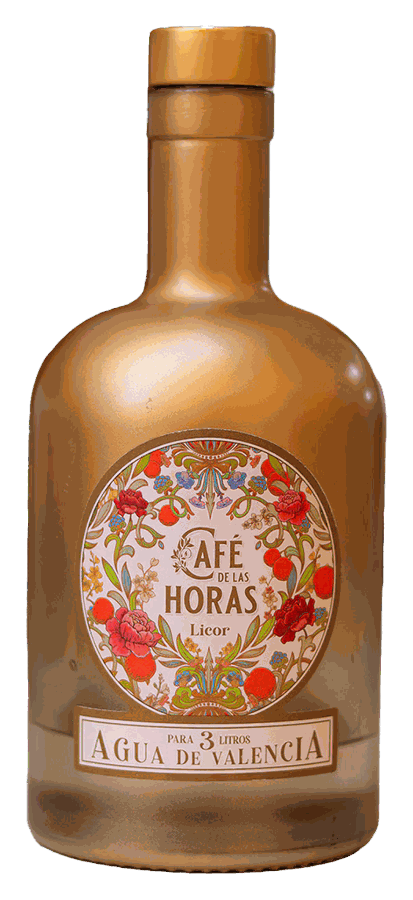
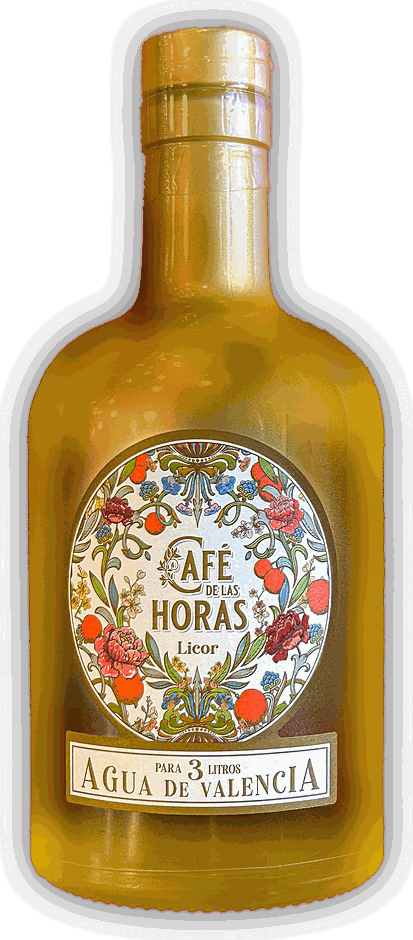
Botella nueva y formulario de pedido con IBAN por email

diff --git a/index.html b/index.html
@@ -7,6 +7,13 @@
 <link rel="preconnect" href="https://fonts.googleapis.com">
 <link rel="preconnect" href="https://fonts.gstatic.com" crossorigin>
 <link href="https://fonts.googleapis.com/css2?family=Fraunces:ital,opsz,wght@0,9..144,300;0,9..144,400;0,9..144,500;0,9..144,600;1,9..144,400&family=Inter:wght@300;400;500;600&display=swap" rel="stylesheet">
+<script>
+  try{
+    if(!sessionStorage.getItem('introSeen') && !matchMedia('(prefers-reduced-motion:reduce)').matches){
+      document.documentElement.classList.add('intro-on');
+    }
+  }catch(e){}
+</script>
 <style>
   :root{
     --naranja:#D9622B;
@@ -81,6 +88,38 @@
     .menu-toggle{display:block;}
     header{padding:18px 20px;}
   }
+
+
+  /* INTRO delicada — botella sobre crema, flores como una filigrana suave en los bordes, se disuelve sobre la web */
+  .intro{display:none; position:fixed; inset:0; z-index:1000; overflow:hidden; align-items:center; justify-content:center; flex-direction:column; background:#f6efe4;
+    transition:opacity 1.2s ease; }
+  html.intro-on .intro{display:flex;}
+  html.intro-on{overflow:hidden;}
+  .intro-flores{position:absolute; inset:-3%; background:url(assets/patron-flores.webp) center/clamp(200px,24vw,300px) repeat; opacity:0; filter:saturate(.75);
+    -webkit-mask-image:radial-gradient(ellipse 46% 52% at 50% 50%, transparent 30%, #000 100%); mask-image:radial-gradient(ellipse 46% 52% at 50% 50%, transparent 30%, #000 100%);
+    animation:floresIn 2.4s ease-out .1s forwards, floresDrift 8s ease-out .1s forwards;}
+  .intro-bottle-wrap{position:relative; z-index:2; display:inline-block; height:min(44vh,420px); opacity:0; transform:translateY(26px);
+    animation:introRise 1.6s cubic-bezier(.2,.7,.2,1) .5s forwards;}
+  .intro-bottle{display:block; height:100%; width:auto; filter:drop-shadow(0 14px 16px rgba(80,50,20,.22));}
+  .intro-bottle-wrap::after{content:""; position:absolute; inset:0; pointer-events:none;
+    background:linear-gradient(105deg, transparent 38%, rgba(255,255,255,.4) 50%, transparent 62%) -150% 0/250% 100% no-repeat;
+    -webkit-mask:url(assets/bottle-hd.webp) center/contain no-repeat; mask:url(assets/bottle-hd.webp) center/contain no-repeat;
+    animation:introShine 1.4s ease-in-out 1.9s forwards;}
+  .intro-line{position:relative; z-index:2; margin-top:26px; height:1px; width:0; background:#b58b3c; animation:lineGrow 1s ease 1.6s forwards;}
+  .intro-name{position:relative; z-index:2; margin-top:16px; font-family:var(--sans); font-size:10.5px; font-weight:500; letter-spacing:.34em; text-transform:uppercase; color:#6b4a24; opacity:0; animation:introText 1.2s ease 1.9s forwards;}
+  .intro-skip{position:absolute; z-index:3; top:24px; right:26px; background:none; border:0; color:rgba(90,60,30,.55); font:11px var(--sans); letter-spacing:.15em; text-transform:uppercase; cursor:pointer; opacity:0; animation:introText .6s ease 1.2s forwards;}
+  .intro.leaving{opacity:0; pointer-events:none;}
+  .intro.leaving .intro-bottle-wrap{transform:translateY(-10px) scale(1.04); transition:transform 1.2s ease;}
+  @keyframes floresIn{to{opacity:.4;}}
+  @keyframes floresDrift{from{transform:scale(1.07);} to{transform:scale(1);}}
+  @keyframes introRise{to{opacity:1; transform:translateY(0);}}
+  @keyframes introShine{to{background-position:250% 0;}}
+  @keyframes lineGrow{to{width:56px;}}
+  @keyframes introText{to{opacity:1;}}
+  /* hero: entrada escalonada tras la intro + zoom lento de fondo */
+  .hero .fade{transition-duration:1.1s;}
+  .hero .eyebrow.fade{transition-delay:.05s;} .hero h1.fade{transition-delay:.2s;} .hero p.fade{transition-delay:.4s;} .hero .cta-row.fade{transition-delay:.6s;}
+  @media(prefers-reduced-motion:reduce){ .intro{display:none !important;} }
 
   /* HERO */
   .hero{
@@ -228,6 +267,32 @@
   .world-row span:not(:last-child)::after{content:"·"; position:absolute; right:-3px; color:var(--dorado);}
 
   /* NEWSLETTER */
+  /* PEDIDO — formulario dentro de la página, sale por WhatsApp */
+  .order-overlay{display:none; position:fixed; inset:0; z-index:900; background:rgba(20,17,13,.6); align-items:center; justify-content:center; padding:24px;}
+  .order-overlay.open{display:flex;}
+  .order-modal{background:var(--crema); width:100%; max-width:460px; max-height:88vh; overflow-y:auto; border-radius:6px; padding:40px 36px; position:relative; box-shadow:0 40px 80px -20px rgba(0,0,0,.4);}
+  .order-close{position:absolute; top:16px; right:16px; width:34px; height:34px; border:0; background:none; font-size:20px; color:var(--negro); opacity:.5; cursor:pointer; line-height:1;}
+  .order-close:hover{opacity:1;}
+  .order-modal h3{font-size:22px; margin-bottom:6px;}
+  .order-modal .order-sub{font-family:var(--sans); font-size:13px; color:#6b6558; margin-bottom:26px; line-height:1.6;}
+  .order-field{margin-bottom:16px;}
+  .order-field label{display:block; font-family:var(--sans); font-size:10.5px; letter-spacing:.08em; text-transform:uppercase; color:#8a8474; margin-bottom:6px;}
+  .order-field input, .order-field select, .order-field textarea{
+    width:100%; font-family:var(--sans); font-size:14px; color:var(--negro); background:#fff;
+    border:1px solid rgba(28,26,23,0.18); border-radius:3px; padding:11px 13px; transition:border-color .2s ease;
+  }
+  .order-field input:focus, .order-field select:focus, .order-field textarea:focus{outline:none; border-color:var(--naranja);}
+  .order-field textarea{resize:vertical; min-height:64px;}
+  .order-row{display:grid; grid-template-columns:2fr 1fr; gap:12px;}
+  .order-modal .btn{width:100%; margin-top:6px; border:0;}
+  .order-note{font-family:var(--sans); font-size:11.5px; color:#8a8474; margin-top:14px; line-height:1.6;}
+  .order-total{font-family:var(--sans); font-size:13px; color:var(--negro); background:#fff; border:1px solid rgba(28,26,23,0.12); border-radius:3px; padding:12px 14px; margin-bottom:14px;}
+  .order-total strong{color:var(--naranja); font-family:var(--serif); font-size:15px;}
+  .order-done{display:none; text-align:center; padding:12px 0;}
+  .order-done.show{display:block;}
+  .order-done h3{margin-bottom:12px;}
+  .order-done p{font-family:var(--sans); font-size:14px; color:#6b6558; line-height:1.7;}
+
   .newsletter{background:var(--negro); color:var(--crema); text-align:center;}
   .newsletter h2{color:var(--crema); font-size:clamp(26px,3.4vw,40px); max-width:640px; margin:0 auto 16px;}
   .newsletter p{font-weight:300; opacity:.75; max-width:480px; margin:0 auto 34px;}
@@ -250,6 +315,14 @@
 </head>
 <body>
 
+
+<div class="intro" id="intro" aria-hidden="true">
+  <div class="intro-flores"></div>
+  <span class="intro-bottle-wrap"><img class="intro-bottle" src="assets/bottle-hd.webp" alt=""></span>
+  <span class="intro-line"></span>
+  <span class="intro-name">Licor Café de Las Horas</span>
+  <button class="intro-skip" type="button" id="introSkip">Saltar</button>
+</div>
 
 <header id="siteHeader">
   <a href="#top" class="logo-mark">
@@ -276,7 +349,7 @@
     <h1 class="fade">30 años de historia, resumidos en un solo licor.</h1>
     <p class="fade">Nacido para la auténtica Agua de Valencia. Creado para inspirar mucho más.</p>
     <div class="cta-row fade">
-      <a href="https://www.licorcafedelashoras.com/products/licor-cafe-de-las-horas" target="_blank" rel="noopener" class="btn btn-solid on-dark">Comprar</a>
+      <button type="button" class="btn btn-solid on-dark js-open-order" data-producto="">Comprar</button>
       <a href="#agua-de-valencia" class="btn btn-outline on-dark">Descubrir la historia</a>
     </div>
   </div>
@@ -293,7 +366,7 @@
       <a href="#" class="btn btn-outline" style="margin-top:12px;">Conoce el licor →</a>
     </div>
     <div class="product-frame fade">
-      <img src="assets/bottle.png" alt="Botella Licor Café de Las Horas">
+      <img src="assets/bottle-md.webp" alt="Botella Licor Café de Las Horas">
     </div>
   </div>
 </section>
@@ -400,21 +473,21 @@
   <div class="wrap">
     <div class="section-head fade">
       <h2>Llévatelo a casa</h2>
-      <a href="https://www.licorcafedelashoras.com/products/licor-cafe-de-las-horas" target="_blank" rel="noopener" class="btn btn-outline">Ver toda la tienda →</a>
+      <button type="button" class="btn btn-outline js-open-order" data-producto="">Ver toda la tienda →</button>
     </div>
     <div class="shop-grid fade">
       <div class="shop-card">
         <span class="badge">Más vendido</span>
         <div class="shop-img"><img src="assets/bottle.png" alt="Botella 700ml"></div>
-        <div class="shop-body"><h3>Botella 700ml</h3><div class="price">25,00 €</div><a href="https://www.licorcafedelashoras.com/products/licor-cafe-de-las-horas" target="_blank" rel="noopener" class="btn btn-outline" style="width:100%; padding:12px;">Añadir</a></div>
+        <div class="shop-body"><h3>Botella 700ml</h3><div class="price">25,00 €</div><button type="button" class="btn btn-outline js-open-order" data-producto="Botella 700ml" style="width:100%; padding:12px;">Añadir</button></div>
       </div>
       <div class="shop-card">
         <div class="shop-img"><img src="assets/bottle.png" alt="Pack 3 botellas"></div>
-        <div class="shop-body"><h3>Pack 3 botellas</h3><div class="price">67,50 €<s>75,00 €</s></div><a href="https://www.licorcafedelashoras.com/products/licor-cafe-de-las-horas" target="_blank" rel="noopener" class="btn btn-outline" style="width:100%; padding:12px;">Añadir</a></div>
+        <div class="shop-body"><h3>Pack 3 botellas</h3><div class="price">67,50 €<s>75,00 €</s></div><button type="button" class="btn btn-outline js-open-order" data-producto="Pack 3 botellas" style="width:100%; padding:12px;">Añadir</button></div>
       </div>
       <div class="shop-card">
         <div class="shop-img"><img src="assets/bottle.png" alt="Pack 6 botellas"></div>
-        <div class="shop-body"><h3>Pack 6 botellas</h3><div class="price">127,50 €<s>150,00 €</s></div><a href="https://www.licorcafedelashoras.com/products/licor-cafe-de-las-horas" target="_blank" rel="noopener" class="btn btn-outline" style="width:100%; padding:12px;">Añadir</a></div>
+        <div class="shop-body"><h3>Pack 6 botellas</h3><div class="price">127,50 €<s>150,00 €</s></div><button type="button" class="btn btn-outline js-open-order" data-producto="Pack 6 botellas" style="width:100%; padding:12px;">Añadir</button></div>
       </div>
     </div>
   </div>
@@ -482,15 +555,163 @@
   </div>
 </footer>
 
+<div class="order-overlay" id="orderOverlay">
+  <div class="order-modal">
+    <button type="button" class="order-close" id="orderClose" aria-label="Cerrar">✕</button>
+
+    <form id="orderForm">
+      <h3>Hacer un pedido</h3>
+      <p class="order-sub">Completa tus datos. Te va a llegar un email a tu propia dirección con el total, el IBAN para hacer la transferencia y los pasos a seguir. Envíos a toda la Unión Europea en 48h desde que confirmamos el pago.</p>
+
+      <div class="order-field">
+        <label for="ordProducto">Producto</label>
+        <select id="ordProducto" name="producto" required>
+          <option value="" disabled selected>Elige un producto</option>
+          <option value="Botella 700ml" data-precio="25.00">Botella 700ml — 25,00 €</option>
+          <option value="Pack 3 botellas" data-precio="67.50">Pack 3 botellas — 67,50 €</option>
+          <option value="Pack 6 botellas" data-precio="127.50">Pack 6 botellas — 127,50 €</option>
+        </select>
+      </div>
+
+      <div class="order-row">
+        <div class="order-field">
+          <label for="ordNombre">Nombre completo</label>
+          <input type="text" id="ordNombre" name="nombre" required>
+        </div>
+        <div class="order-field">
+          <label for="ordCantidad">Cantidad</label>
+          <input type="number" id="ordCantidad" name="cantidad" min="1" value="1" required>
+        </div>
+      </div>
+
+      <div class="order-field">
+        <label for="ordEmail">Tu email</label>
+        <input type="email" id="ordEmail" name="email" required>
+      </div>
+
+      <div class="order-field">
+        <label for="ordTelefono">Teléfono de contacto</label>
+        <input type="tel" id="ordTelefono" name="telefono" required>
+      </div>
+
+      <div class="order-field">
+        <label for="ordDireccion">Dirección de envío completa</label>
+        <textarea id="ordDireccion" name="direccion" placeholder="Calle, número, ciudad, código postal, país" required></textarea>
+      </div>
+
+      <div class="order-field">
+        <label for="ordNotas">Notas (opcional)</label>
+        <textarea id="ordNotas" name="notas"></textarea>
+      </div>
+
+      <div class="order-total" id="ordTotal" style="display:none;">Total: <strong id="ordTotalCifra">—</strong></div>
+
+      <button type="submit" class="btn btn-solid">Recibir el IBAN por email</button>
+      <p class="order-note">Al enviar se abre tu programa de correo con un email dirigido a vos mismo, con el pedido, el total y el IBAN. Solo tenés que darle a enviar. Cuando hagas la transferencia, respondé ese mismo email adjuntando el comprobante de pago.</p>
+    </form>
+
+    <div class="order-done" id="orderDone">
+      <h3>¡Listo!</h3>
+      <p>Revisá tu programa de correo: te dejamos un email redactado, dirigido a vos, con el pedido, el total y el IBAN. Dale a enviar para tenerlo guardado, y respondelo con el comprobante en cuanto hagas la transferencia. Si no se abrió, escribinos a <a href="mailto:comercial@licorlashoras.com" style="color:var(--naranja);">comercial@licorlashoras.com</a> con tus datos.</p>
+    </div>
+  </div>
+</div>
+
 <script>
   const header = document.getElementById('siteHeader');
   window.addEventListener('scroll', () => {
     header.classList.toggle('scrolled', window.scrollY > 40);
   });
+  // Intro: la botella entra, brilla y la cortina sube. Solo la primera vez por sesión.
+  const intro = document.getElementById('intro');
+  let introFinished = !document.documentElement.classList.contains('intro-on');
+  const heroFades = document.querySelectorAll('.hero .fade');
+  function finishIntro(){
+    if(introFinished) return; introFinished = true;
+    try{ sessionStorage.setItem('introSeen','1'); }catch(e){}
+    intro.classList.add('leaving');
+    document.documentElement.classList.remove('intro-on');
+    setTimeout(()=>heroFades.forEach(el=>el.classList.add('in')), 500);
+    setTimeout(()=>intro.remove(), 2000);
+  }
+  if(!introFinished){
+    setTimeout(finishIntro, 3600);
+    intro.addEventListener('click', finishIntro);
+  }
   const io = new IntersectionObserver((entries)=>{
-    entries.forEach(e=>{ if(e.isIntersecting) e.target.classList.add('in'); });
+    entries.forEach(e=>{
+      if(!e.isIntersecting) return;
+      if(!introFinished && e.target.closest('.hero')) return; // el hero espera a la intro
+      e.target.classList.add('in');
+    });
   }, {threshold:0.15});
   document.querySelectorAll('.fade').forEach(el=>io.observe(el));
+
+  // Pedido: abrir/cerrar el formulario, calcular el total y enviar el email con el IBAN
+  const orderOverlay = document.getElementById('orderOverlay');
+  const orderForm = document.getElementById('orderForm');
+  const orderDone = document.getElementById('orderDone');
+  const ordProducto = document.getElementById('ordProducto');
+  const ordCantidad = document.getElementById('ordCantidad');
+  const ordTotal = document.getElementById('ordTotal');
+  const ordTotalCifra = document.getElementById('ordTotalCifra');
+  const IBAN = 'ES38 3159 0066 9528 6026 0922';
+  const TITULAR = 'MRIK DRINKS, SOCIEDAD LIMITADA';
+  function euros(n){ return n.toLocaleString('es-ES',{minimumFractionDigits:2, maximumFractionDigits:2}) + ' €'; }
+  function actualizarTotal(){
+    const opt = ordProducto.selectedOptions[0];
+    const precio = opt ? parseFloat(opt.dataset.precio) : NaN;
+    const cant = parseInt(ordCantidad.value, 10) || 0;
+    if(!precio || !cant){ ordTotal.style.display = 'none'; return; }
+    ordTotalCifra.textContent = euros(precio * cant);
+    ordTotal.style.display = '';
+  }
+  ordProducto.addEventListener('change', actualizarTotal);
+  ordCantidad.addEventListener('input', actualizarTotal);
+  function openOrder(producto){
+    orderForm.style.display = '';
+    orderDone.classList.remove('show');
+    if(producto) ordProducto.value = producto;
+    actualizarTotal();
+    orderOverlay.classList.add('open');
+    document.body.style.overflow = 'hidden';
+  }
+  function closeOrder(){
+    orderOverlay.classList.remove('open');
+    document.body.style.overflow = '';
+  }
+  document.querySelectorAll('.js-open-order').forEach(btn=>{
+    btn.addEventListener('click', ()=> openOrder(btn.dataset.producto));
+  });
+  document.getElementById('orderClose').addEventListener('click', closeOrder);
+  orderOverlay.addEventListener('click', (e)=>{ if(e.target === orderOverlay) closeOrder(); });
+  orderForm.addEventListener('submit', (e)=>{
+    e.preventDefault();
+    const d = Object.fromEntries(new FormData(orderForm).entries());
+    const precio = parseFloat(ordProducto.selectedOptions[0].dataset.precio);
+    const cant = parseInt(d.cantidad, 10) || 1;
+    const total = euros(precio * cant);
+    const cuerpo = `Hola ${d.nombre},\n\n`
+      + `Este es el resumen de tu pedido en Licor Café de Las Horas:\n\n`
+      + `Producto: ${d.producto}\n`
+      + `Cantidad: ${d.cantidad}\n`
+      + `Total: ${total}\n\n`
+      + `Teléfono de contacto: ${d.telefono}\n`
+      + `Dirección de envío: ${d.direccion}`
+      + (d.notas ? `\nNotas: ${d.notas}` : '')
+      + `\n\nPara completar el pedido, hacé una transferencia por ${total} a:\n\n`
+      + `Titular: ${TITULAR}\n`
+      + `IBAN: ${IBAN}\n\n`
+      + `Cuando la hayas hecho, respondé este mismo email adjuntando el comprobante de pago y preparamos el envío.\n`
+      + `Envíos a toda la Unión Europea en 48h desde que confirmamos el pago recibido.`;
+    const asunto = `Tu pedido — ${d.producto} — ${total}`;
+    window.location.href = 'mailto:' + encodeURIComponent(d.email)
+      + '?bcc=comercial@licorlashoras.com'
+      + '&subject=' + encodeURIComponent(asunto)
+      + '&body=' + encodeURIComponent(cuerpo);
+    orderForm.style.display = 'none';
+    orderDone.classList.add('show');
+  });
 </script>
 
 </body>
